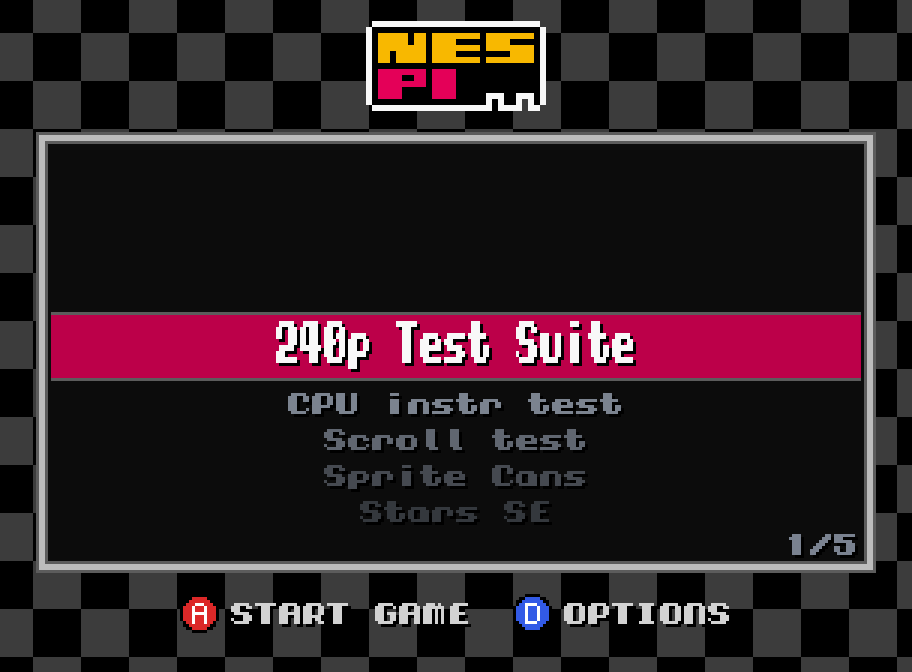
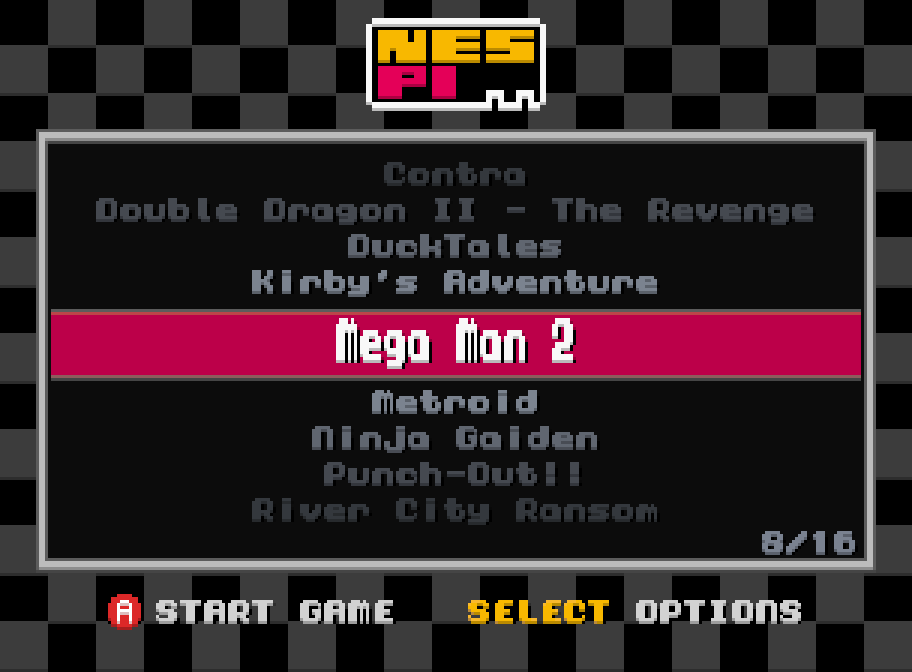
Site screenshots with Mega Man 2; lighter background behind menus
Paused game behind the menus is now drawn at 55% brightness (was 30%).

Claude-Session: https://claude.ai/code/session_01N2Hq226uQhyA2h4US6RXto

Changed region(s): [[0.0, 0.0, 1.0, 1.0], [0.5833, 0.2812, 0.8904, 0.3438]]

diff --git a/src/ui.cpp b/src/ui.cpp
@@ -381,9 +381,9 @@ void CUI::SnapshotGame (const u32 *pGameBuf)
 		for (int x = 0; x < UI_W; x++)
 		{
 			u32 p = s[x];
-			u32 r = ((p >> 16) & 0xFF) * 30 / 100;
-			u32 g = ((p >> 8) & 0xFF) * 30 / 100;
-			u32 b = (p & 0xFF) * 30 / 100;
+			u32 r = ((p >> 16) & 0xFF) * 55 / 100;	// the paused game at 55%
+			u32 g = ((p >> 8) & 0xFF) * 55 / 100;
+			u32 b = (p & 0xFF) * 55 / 100;
 			m_Snapshot[y * UI_W + x] = ARGB ((r << 16) | (g << 8) | b);
 		}
 	}
